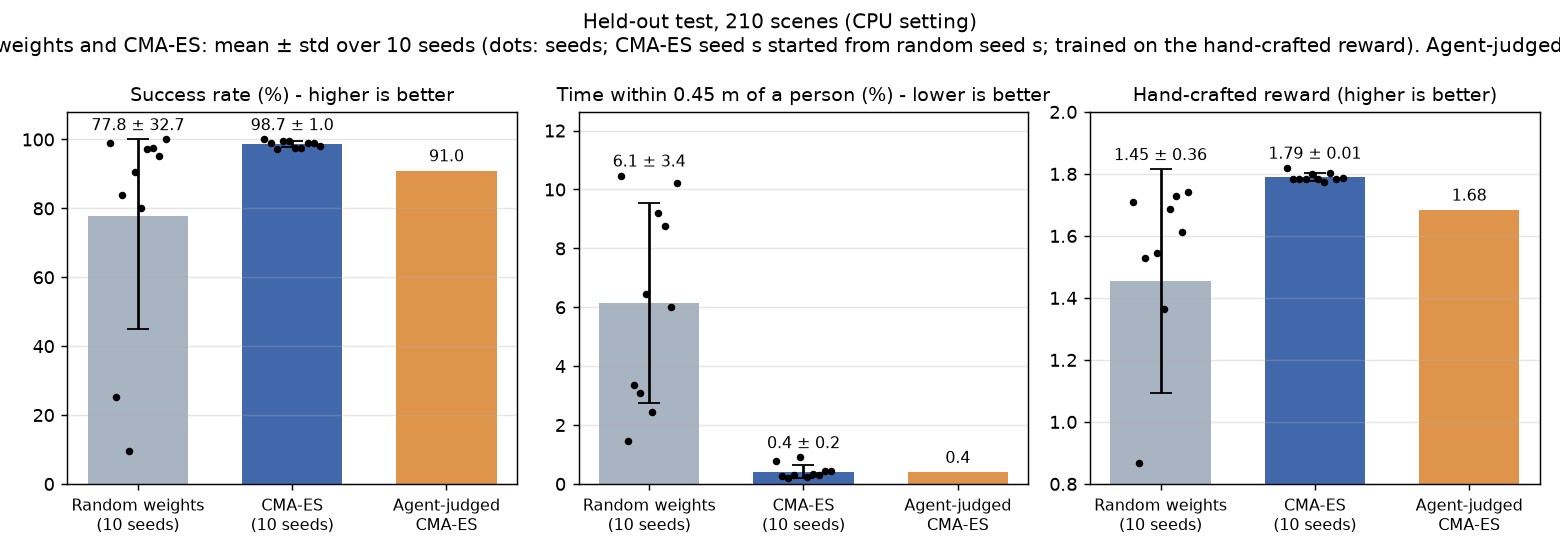
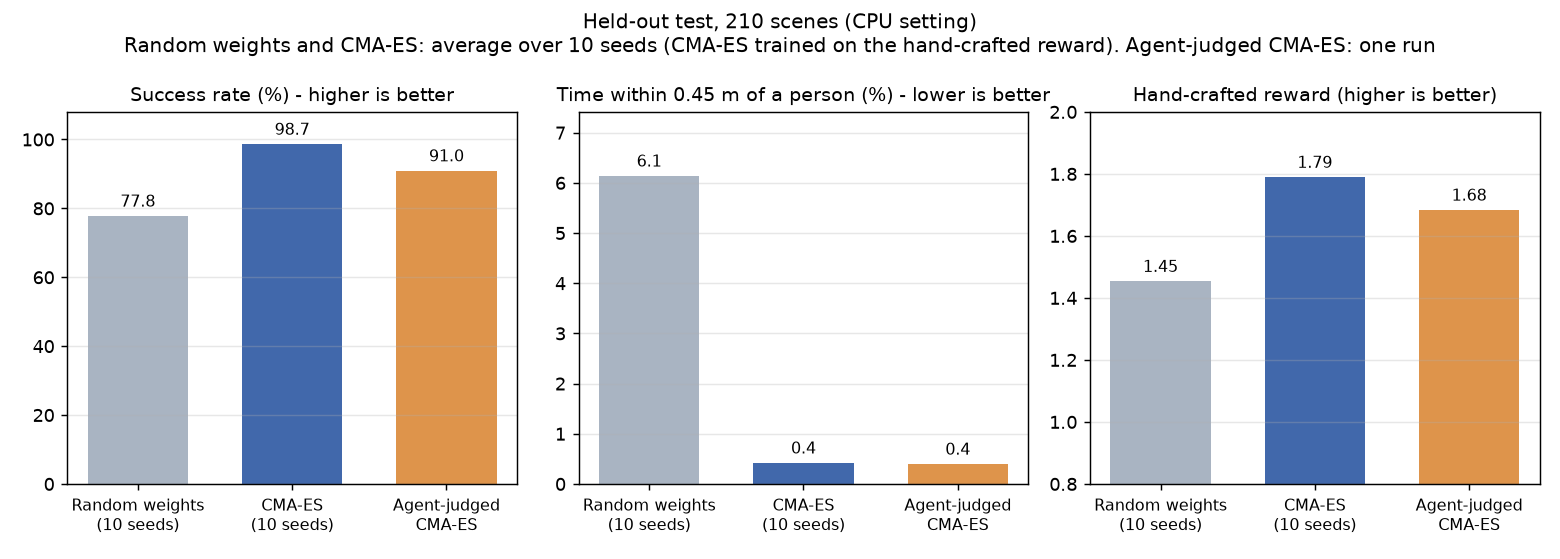
Comparison plot: averages only
Claude-Session: https://claude.ai/code/session_012oeNvwPSTEAtdJdafyEtUh

diff --git a/docs/results/agent_judge/scripts/plot_comparison.py b/docs/results/agent_judge/scripts/plot_comparison.py
@@ -1,4 +1,4 @@
-"""Bar plot: random weights and the 10 CMA-ES seeds of the seed study (mean ± std, dots = seeds) against
+"""Bar plot: random weights and the 10 CMA-ES seeds of the seed study (mean over seeds) against
 the agent-judged run, all on the same 210 held-out scenes of the CPU setting (cost_comparison.json)."""
 import json
 
@@ -21,22 +21,14 @@ fig, axes = plt.subplots(1, 3, figsize=(12, 4.3))
 for ax, (key, title, scale, ylim) in zip(axes, metrics):
     for i, ((name, group), c) in enumerate(zip(rows, colours)):
         v = np.array([g[key] for g in group]) * scale
-        lo_cap, hi_cap = (0, 100) if scale == 100 else (-np.inf, np.inf)
-        sd = v.std(ddof=1) if len(v) > 1 else 0.0
-        err = [[v.mean() - max(lo_cap, v.mean() - sd)], [min(hi_cap, v.mean() + sd) - v.mean()]]
-        ax.bar(i, v.mean(), color=c, alpha=0.85, width=0.65, yerr=err if len(v) > 1 else None, capsize=6)
-        if len(v) > 1:
-            ax.scatter(np.full(len(v), i) + np.linspace(-0.18, 0.18, len(v)), v, color="black", s=10, zorder=3)
-        digits = 2 if scale == 1 else 1
-        label = f"{v.mean():.{digits}f}" + (f" ± {sd:.{digits}f}" if len(v) > 1 else "")
-        top = min(hi_cap, v.mean() + sd)
-        ax.annotate(label, (i, max(top, v.max())), ha="center", va="bottom", fontsize=9, xytext=(0, 3),
-                    textcoords="offset points")
+        ax.bar(i, v.mean(), color=c, alpha=0.85, width=0.65)
+        ax.annotate(f"{v.mean():.{2 if scale == 1 else 1}f}", (i, v.mean()), ha="center", va="bottom", fontsize=9,
+                    xytext=(0, 3), textcoords="offset points")
     ax.set_xticks(range(len(rows)), [n for n, _ in rows], fontsize=9)
     ax.set_title(title, fontsize=10.5), ax.grid(axis="y", alpha=0.3)
     ax.set_ylim(ylim[0], ylim[1] if ylim[1] else ax.get_ylim()[1] * 1.15)
-fig.suptitle("Held-out test, 210 scenes (CPU setting)\nRandom weights and CMA-ES: mean ± std over 10 seeds (dots: seeds; "
-             "CMA-ES seed s started from random seed s; trained on the hand-crafted reward). Agent-judged: one run", fontsize=11)
+fig.suptitle("Held-out test, 210 scenes (CPU setting)\nRandom weights and CMA-ES: average over 10 seeds "
+             "(CMA-ES trained on the hand-crafted reward). Agent-judged CMA-ES: one run", fontsize=11)
 fig.tight_layout()
 fig.savefig(D + "comparison.png", dpi=130)
 print("saved", D + "comparison.png")

diff --git a/docs/results/agent_judge/README.md b/docs/results/agent_judge/README.md
@@ -20,7 +20,7 @@ excellent +1, acceptable +0.5, stalled 0, unsafe -1. A candidate's fitness is it
 
 Random weights and CMA-ES are the earlier seed study's 10 seeds (CMA-ES seed s started from random
 seed s and was trained on the hand-crafted reward in the STARS crowd: 11 weights, ~460k episodes per
-seed), scored here as they are. Mean ± standard deviation over seeds (`cost_comparison.json`):
+seed), scored here as they are. Mean ± standard deviation over seeds (`cost_comparison.json`; the plot shows the means):
 
 | | Success | Time within 0.45 m of a person | Hand-crafted reward |
 | --- | --- | --- | --- |
